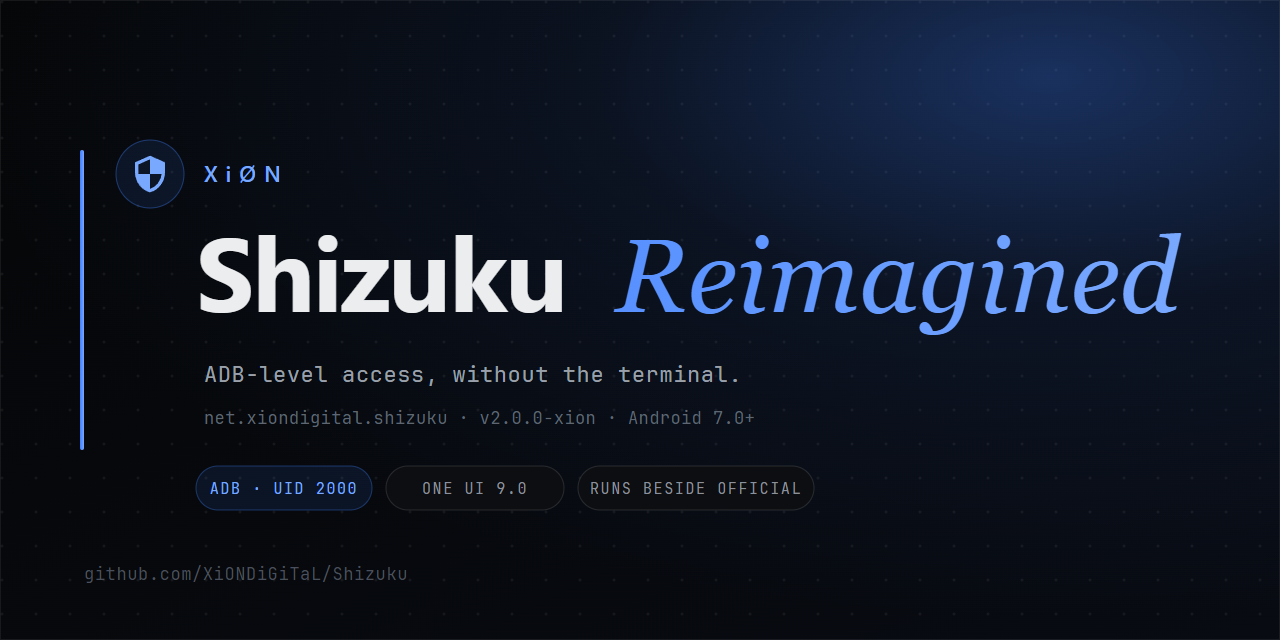
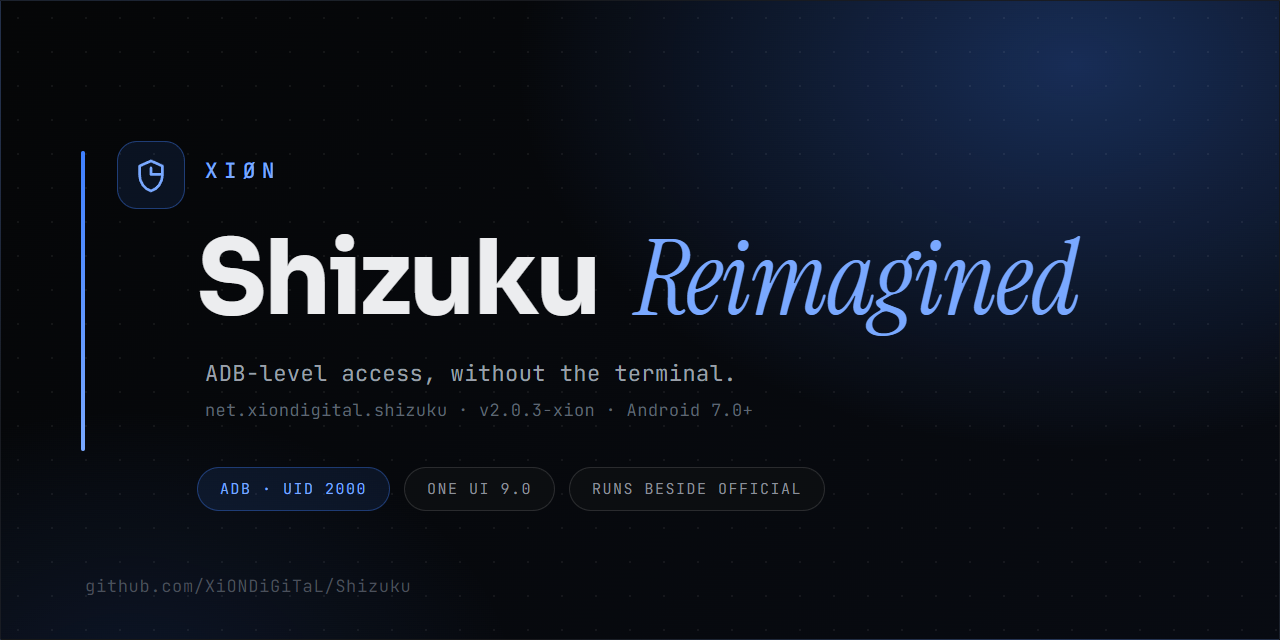
Move the site to 2.0.3 and fix the preview image
The hero still advertised 2.0.2, the social card was drawn with 2.0.0, and the
og:image URL used a lowercase path that returns 404, so link previews had no
image at all.

diff --git a/site/index.html b/site/index.html
@@ -9,7 +9,9 @@
 <meta property="og:title" content="Shizuku Reimagined, XiØN">
 <meta property="og:description" content="ADB-level access, without the terminal. A rebuilt Shizuku with truthful authorisation reporting and real privileged tools.">
 <meta property="og:type" content="website">
-<meta property="og:image" content="https://xiondigital.net/shizuku/assets/social.png">
+<meta property="og:image" content="https://xiondigital.net/Shizuku/assets/social.png">
+<meta property="og:image:width" content="1280">
+<meta property="og:image:height" content="640">
 <link rel="preconnect" href="https://fonts.googleapis.com">
 <link rel="preconnect" href="https://fonts.gstatic.com" crossorigin>
 <link rel="stylesheet" href="https://fonts.googleapis.com/css2?family=Sora:wght@300;400;500;600;700&family=Instrument+Serif:ital@0;1&family=JetBrains+Mono:wght@400;500&display=swap">
@@ -90,7 +92,7 @@
           </div>
 
           <ul class="hero__meta">
-            <li><span>Release</span> <strong>v2.0.2-xion</strong></li>
+            <li><span>Release</span> <strong>v2.0.3-xion</strong></li>
             <li><span>Android</span> <strong>7.0+</strong></li>
             <li><span>Replaces</span> <strong>Shizuku 13.7.0</strong></li>
             <li><span>Status</span> <strong class="chip chip--ok chip--dot">verified on device</strong></li>
